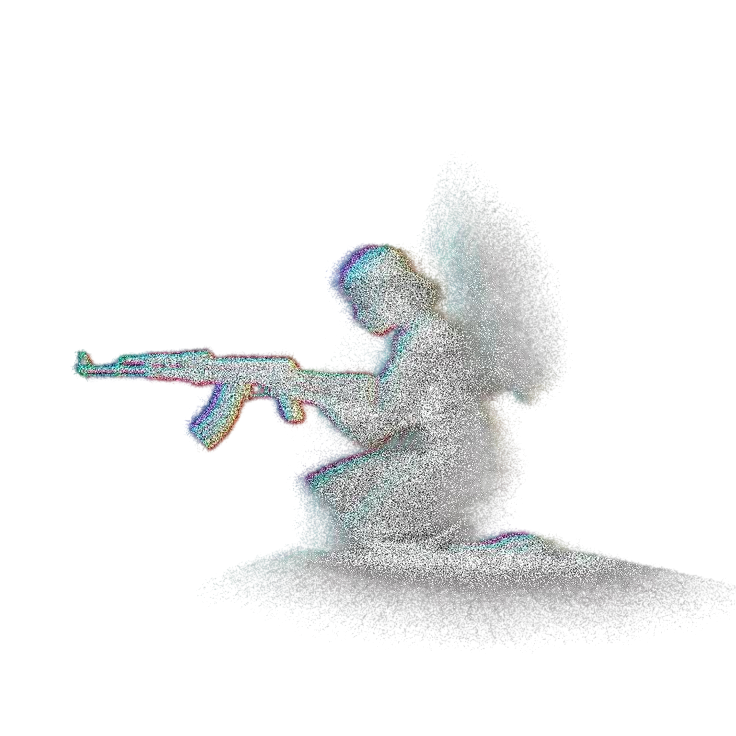
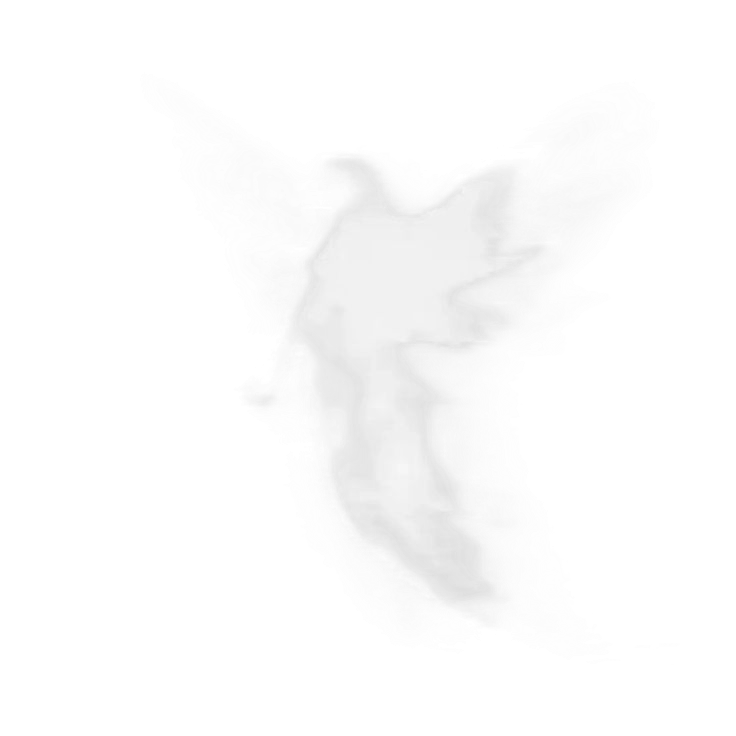
visual atualizado

Changed region(s): [[0.0938, 0.2812, 0.9688, 0.875]]

diff --git a/style.css b/style.css
@@ -181,14 +181,22 @@ body.me {
     font-size: 1.6rem;
     text-align: center;
     text-shadow: 3px -2px 2px rgba(209, 57, 57, 0.6);
-    color: rgb(220, 23, 23);
+    color: rgb(174, 14, 14);
     margin-top: 20px;
+}
+
+.button {
+    text-align: center;
+    margin-top: -100px;
+    container: center;
+    text-shadow: 3px -2px 2px rgba(0, 0, 0, 0.6);
+
 }
 
 .text-me {
     font-size: 1.25rem;
     text-align: center;
-    text-shadow: 2px 2px 4px rgba(0, 0, 0, 0.6);
+    text-shadow: 2px 2px 4px rgba(255, 255, 255, 0.6);
     color: white;
     margin-top: 20px;
 }

diff --git a/me.html b/me.html
@@ -32,6 +32,11 @@
             <h1>Me</h1>
         </section>
 
+        <section class="button">
+            <a href="https://github.com/0Silva111?tab=repositories" target="_blank"><img src="github.svg" alt="GitHub" height="50"></a>
+            <p>My GitHub</p>
+        </section>
+
         <hr class="divider">
 
         <section class="text-about-me">

diff --git a/more.html b/more.html
@@ -30,7 +30,7 @@
     <main class="container">
 
         <section class="hero-section">
-            <h1>More??</h1>
+            <h1>More?</h1>
         </section>
 
         <hr class="divider">